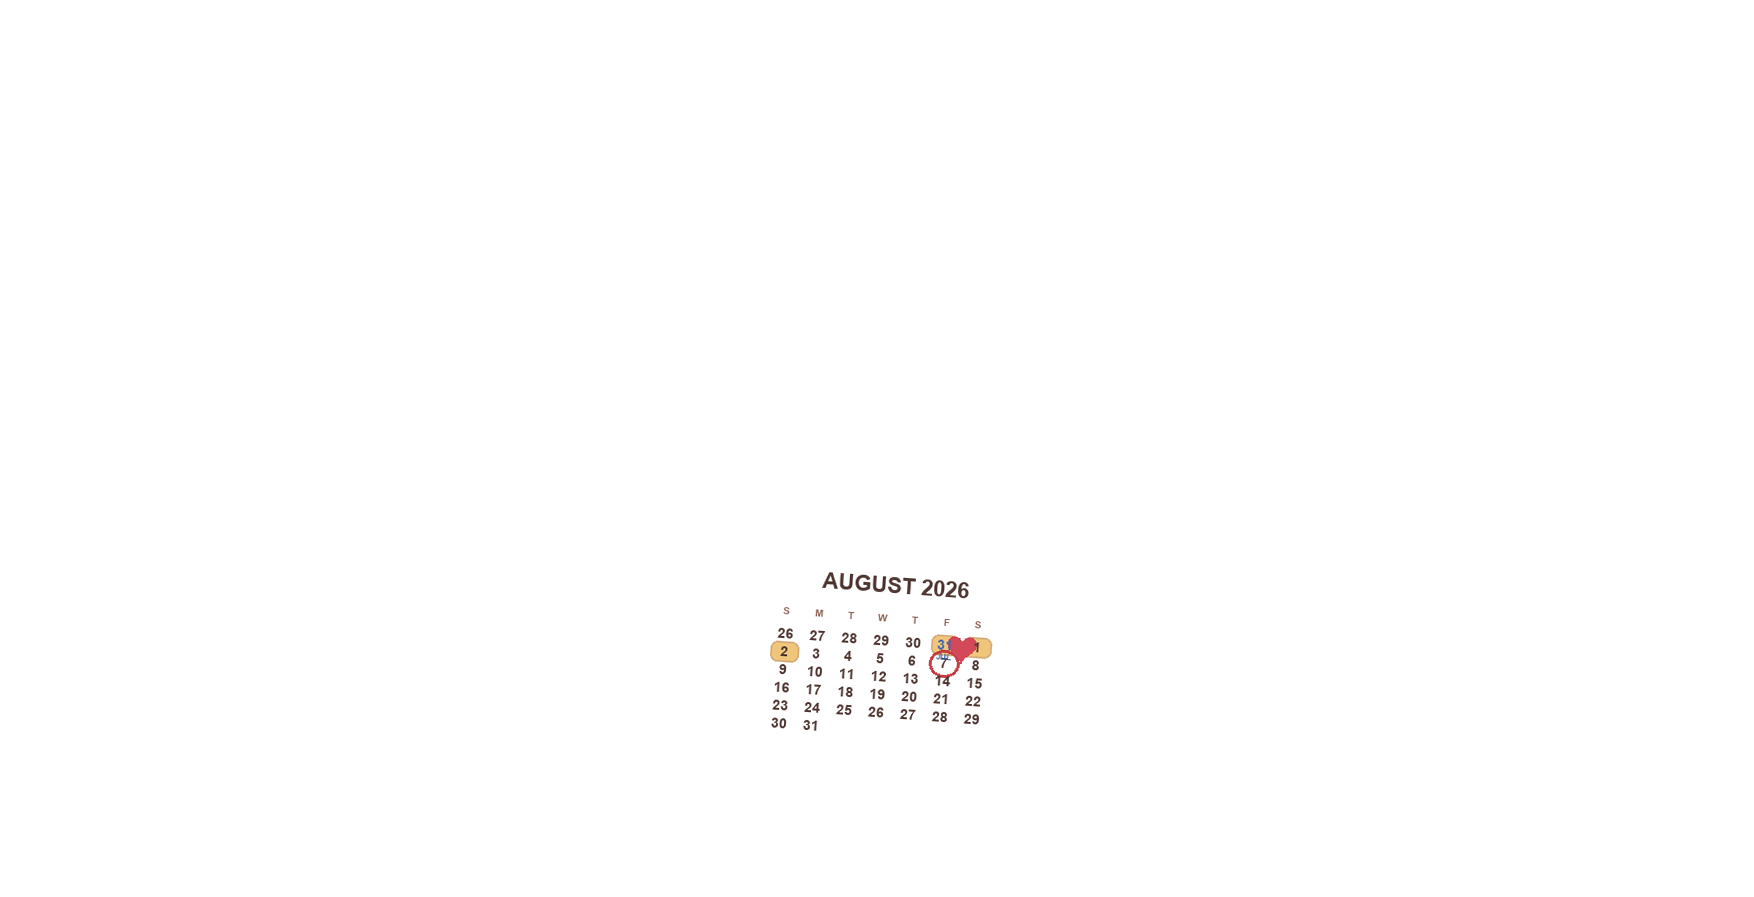
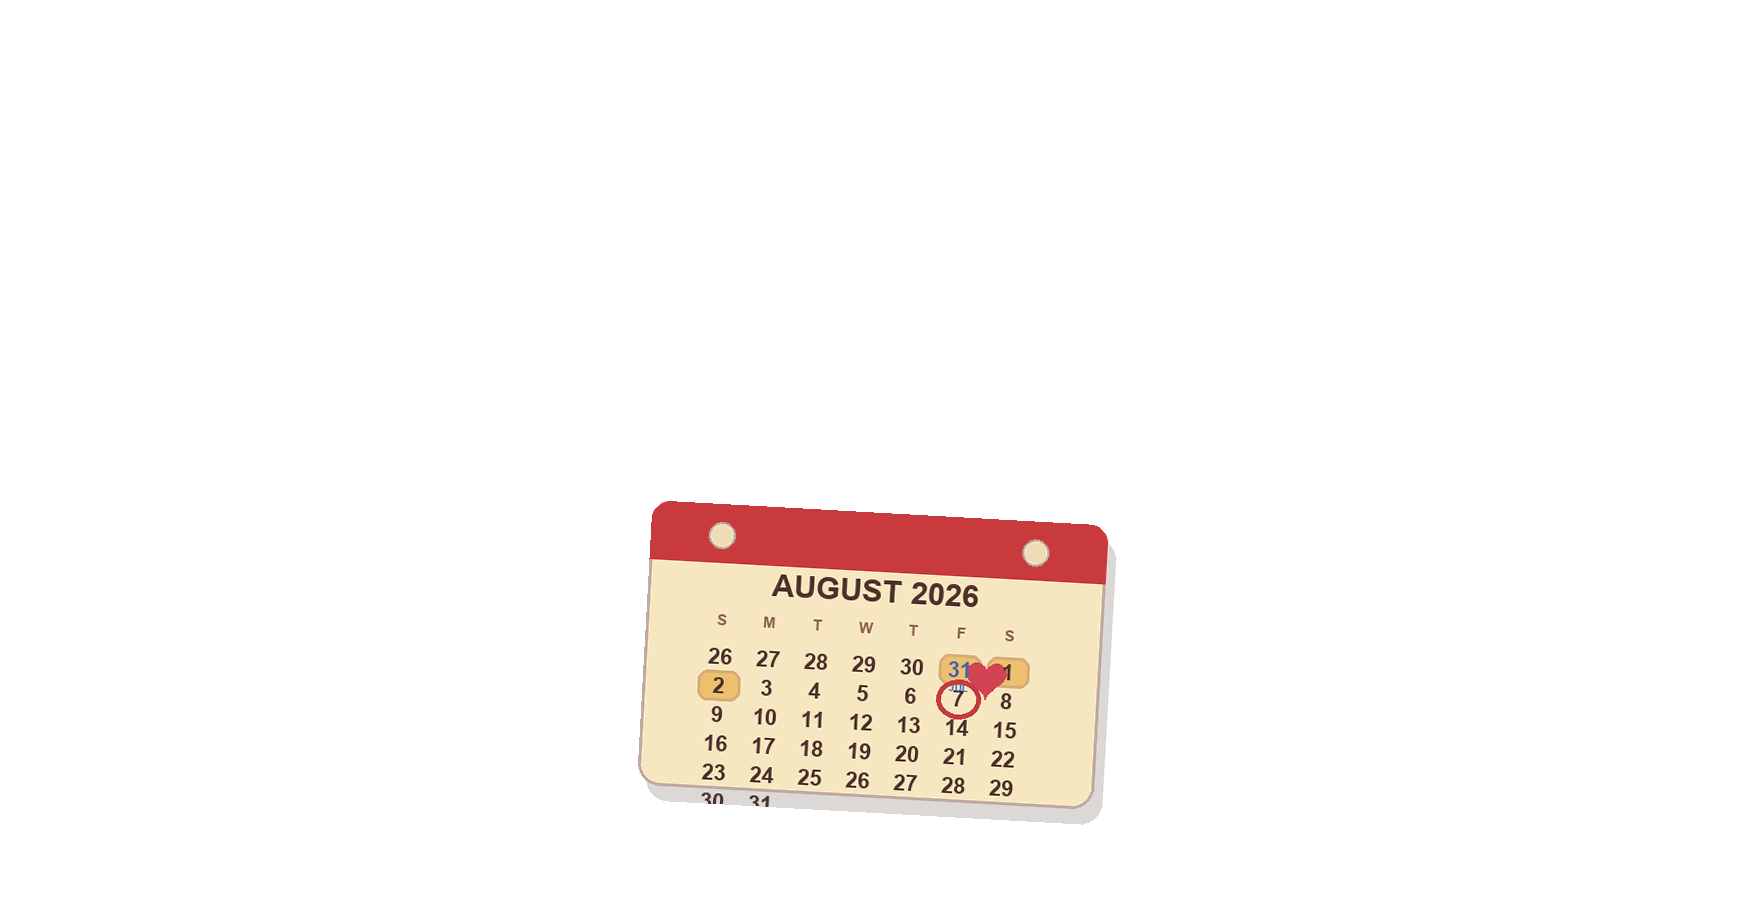
Use composite wedding photo fills

Changed region(s): [[0.3387, 0.5619, 0.6465, 0.9365]]

diff --git a/src/config/sections.js b/src/config/sections.js
@@ -88,9 +88,9 @@ const RAW_SECTION_LAYERS = {
   couple: [
     { src: "couple-bg-garland.png", depth: -3.15, scale: 6.1, x: 0, y: 1.48 },
     { src: "couple-streamers-symmetric.png", depth: -3.1, scale: 6.1, x: 0, y: 1.48, noShadow: true },
-    { src: "couple-calendar-highlights.png", depth: -3.06, scale: 6.1, x: 0, y: 1.48, noShadow: true },
+    { src: "couple-calendar-highlights.png", depth: -3.02, scale: 6.1, x: 0, y: 1.48, noShadow: true },
     {
-      src: "couple-wall-cards-florals.png",
+      src: "couple-wall-cards-florals-filled.png",
       ...ARC_BACKDROP,
       depth: -2.9,
       scale: 1.62,
@@ -99,24 +99,11 @@ const RAW_SECTION_LAYERS = {
       rotationY: 0.2,
       contactShadow: false,
     },
-    {
-      src: "couple-zola-frame-fills.png",
-      ...ARC_BACKDROP,
-      depth: -2.84,
-      scale: 1.62,
-      x: -7.85,
-      y: 0.82,
-      rotationY: 0.2,
-      noShadow: true,
-      contactShadow: false,
-    },
     { src: "couple-bg-garland-top.png", ...ARC_BACKDROP, depth: -3.08, scale: 2.45, x: 7.8, y: 1.9, rotationY: -0.14 },
     { src: "couple-floor-accents.png", ...ARC_GROUND, depth: 0.26, scale: 2.25, x: 0, y: -1.06, rotationY: 0.02, noShadow: true, contactShadow: false },
     { src: "person-bride-gabi-v2.png", depth: 0.34, scale: PERSON_SCALE, x: 1.04, y: PERSON_Y },
-    { src: "couple-keepsake-photo-fills.png", ...ARC_EDGE_PROP, depth: 0.89, scale: 1.35, x: -5.65, y: -1.34, rotationY: 0.16, noShadow: true, contactShadow: false },
-    { src: "couple-keepsake-cluster.png", ...ARC_EDGE_PROP, depth: 0.86, scale: 1.35, x: -5.65, y: -1.34, rotationY: 0.16 },
-    { src: "couple-foreground-photo-fills.png", ...ARC_EDGE_PROP, depth: 1.03, scale: 2.05, x: 6.45, y: -1.31, rotationY: -0.18, noShadow: true, contactShadow: false },
-    { src: "couple-foreground-props.png", ...ARC_EDGE_PROP, depth: 0.98, scale: 2.05, x: 6.45, y: -1.31, rotationY: -0.18 },
+    { src: "couple-keepsake-cluster-filled.png", ...ARC_EDGE_PROP, depth: 0.86, scale: 1.35, x: -5.65, y: -1.34, rotationY: 0.16 },
+    { src: "couple-foreground-props-filled.png", ...ARC_EDGE_PROP, depth: 0.98, scale: 2.05, x: 6.45, y: -1.31, rotationY: -0.18 },
   ],
 
   airbnb: [

diff --git a/AGENTS.md b/AGENTS.md
@@ -98,6 +98,24 @@ No automated tests. Verify visually:
 3. Screenshot to confirm framing, alcove colors, seams, and parallax read correctly.
    Clean up scratch screenshots before committing.
 
+
+## Project visual QA notes
+
+- Use `playwright-cli` for visual QA before pushing any visual change. Capture the
+  current section yourself, inspect console/network, and fix obvious issues before
+  handing work back to the user.
+- Do not make the user repeat visual feedback. When feedback reveals a durable
+  expectation, record it in this section before applying the fix.
+- Wedding-section photo fills must be clipped into their host frame/card artwork.
+  Do not leave photos as free-floating rectangles on top of props.
+- Match each photo fill's rotation and perspective to the asset it belongs to;
+  mismatched tilts read as broken collage work.
+- Crop wedding photos conservatively so heads/faces are not cut off. Prefer
+  contained or face-safe crops over cover crops for small landscape frames.
+- The wedding calendar must remain legible even when zoomed in: make the card and
+  numbers large enough, keep all dates inside the card borders, and keep the
+  wedding/bachelor-weekend highlights readable.
+
 ## Deploy & review workflow
 
 - Pushing to `main` triggers `.github/workflows/deploy.yml` (build → GitHub Pages).